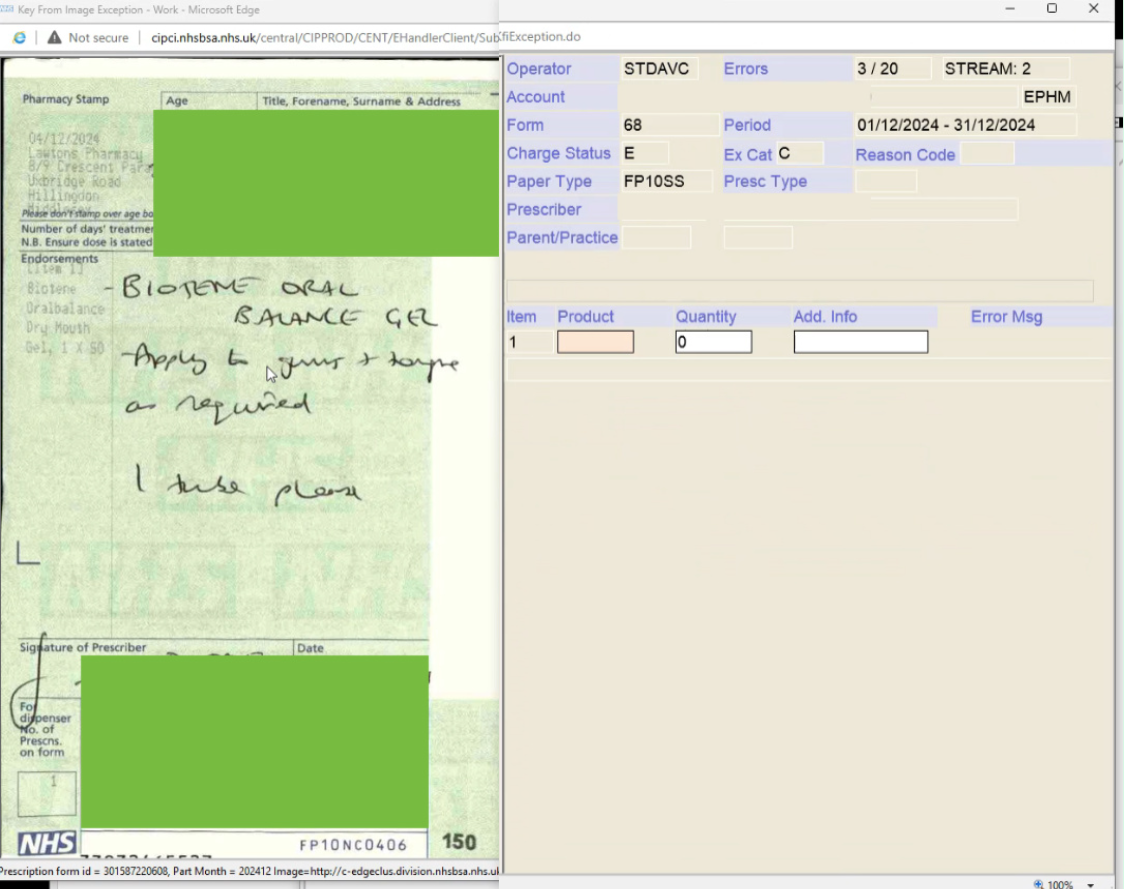
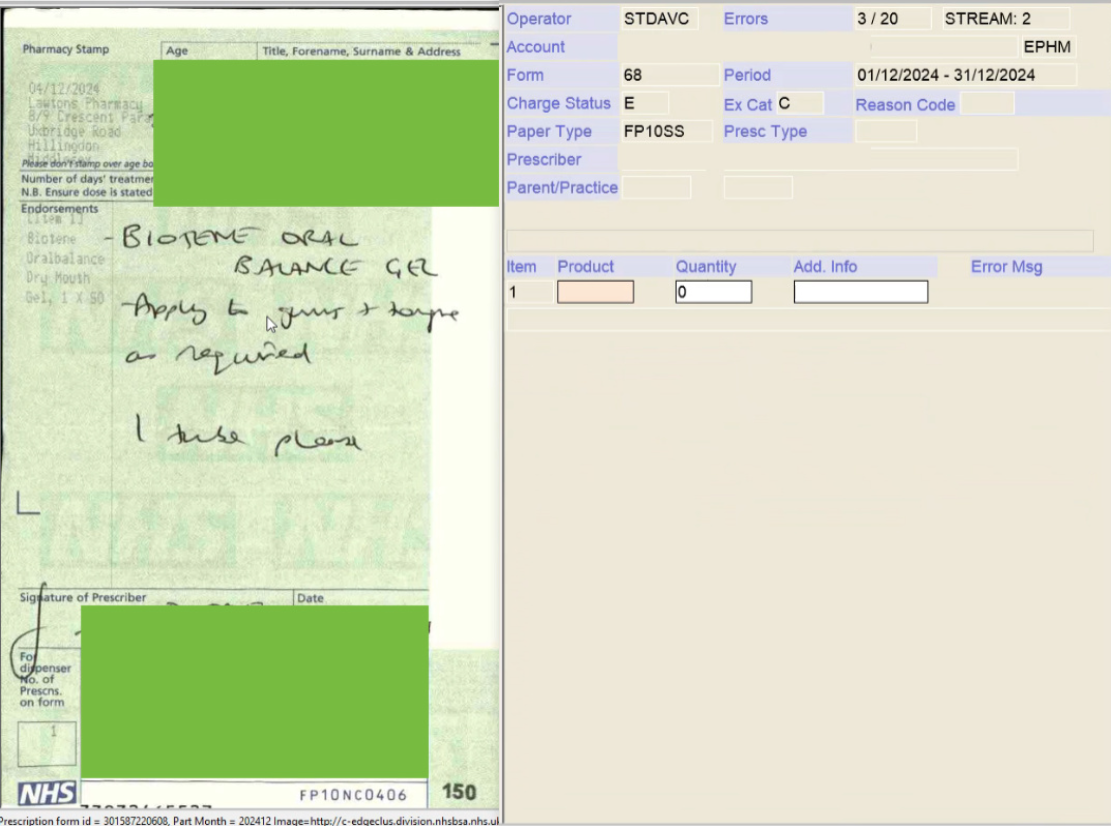
updated

diff --git a/app/views/v2/trainee/CIP-process-prescriptions.html b/app/views/v2/trainee/CIP-process-prescriptions.html
@@ -23,7 +23,7 @@ Prescription Processing Training Package
   <div class="image-container">
   <input type="checkbox" id="zoomCheck">
   <label for="zoomCheck">
-    <img src="/images/cip-1.png" alt="invoice" style="max-width: 80%;">
+    <img src="/images/cip-1.png" alt="invoice">
   </label>
 </div>
 </div>    
